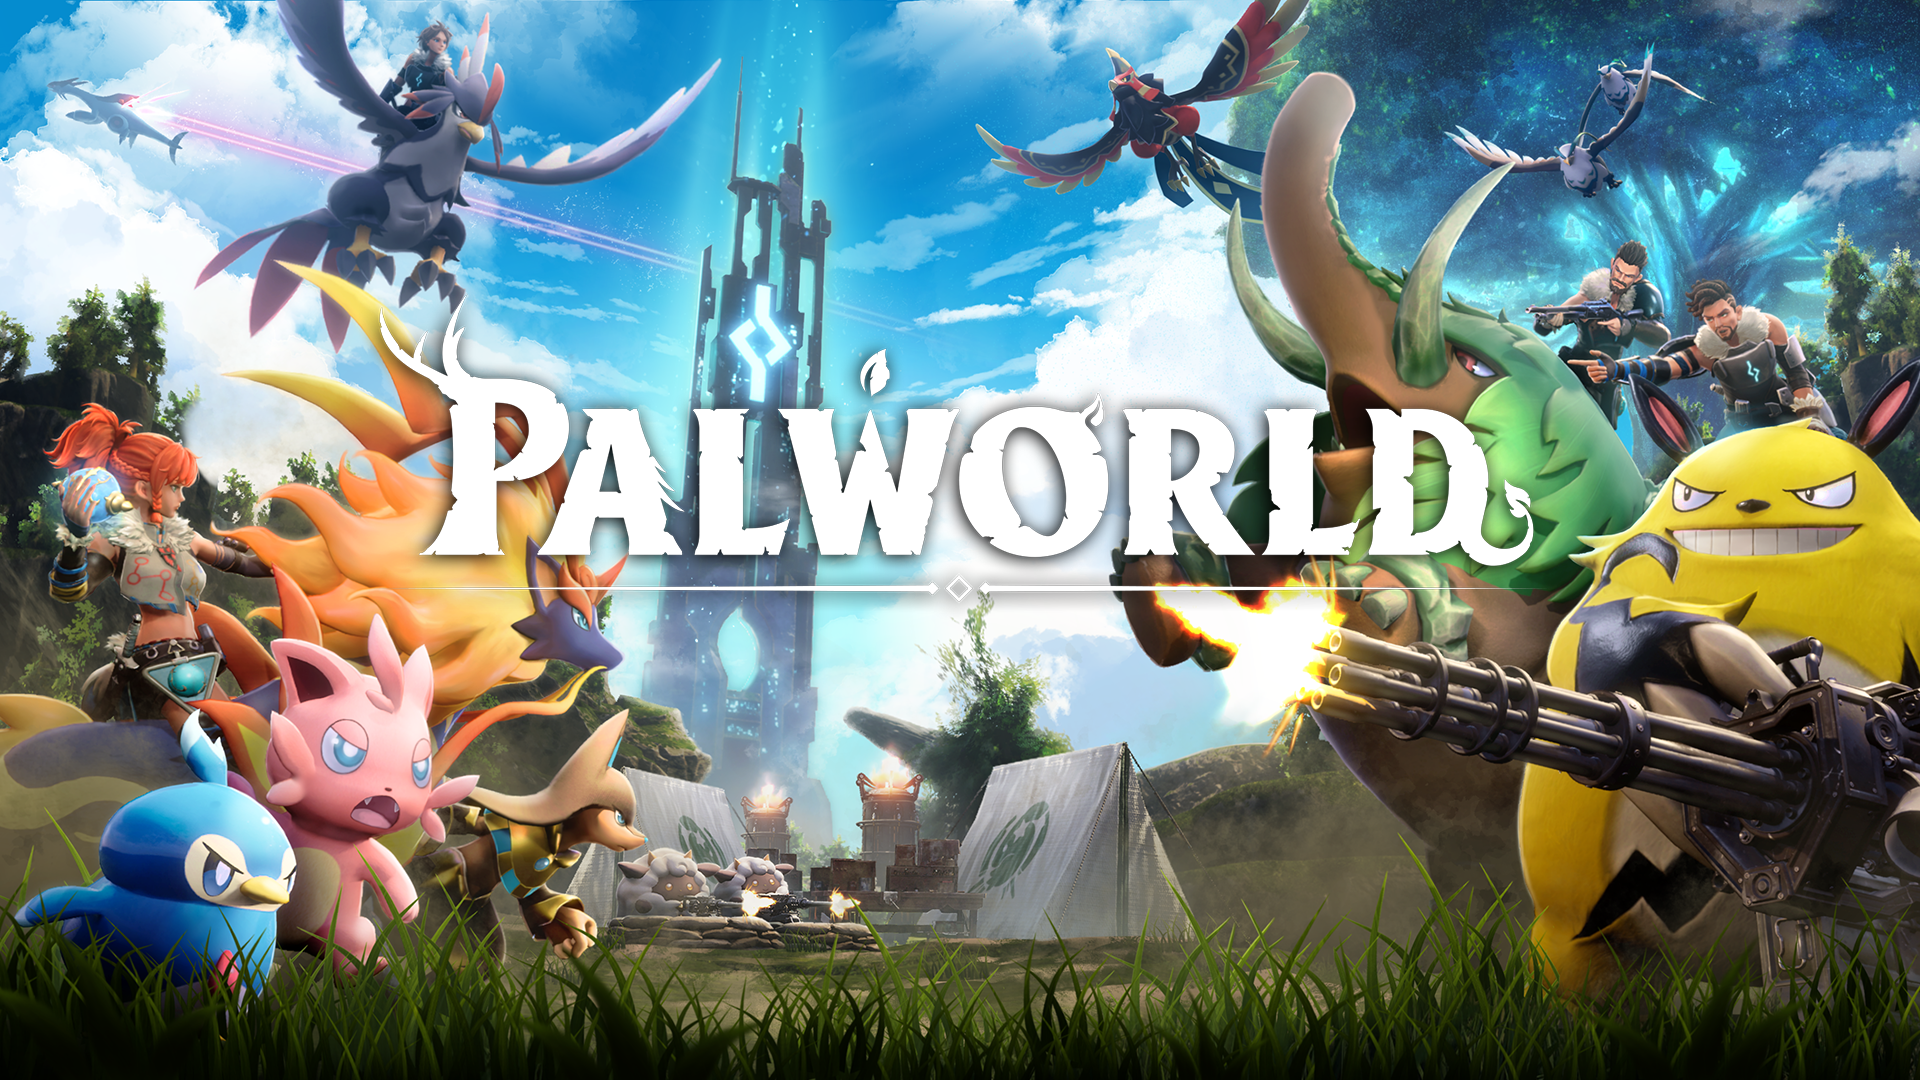
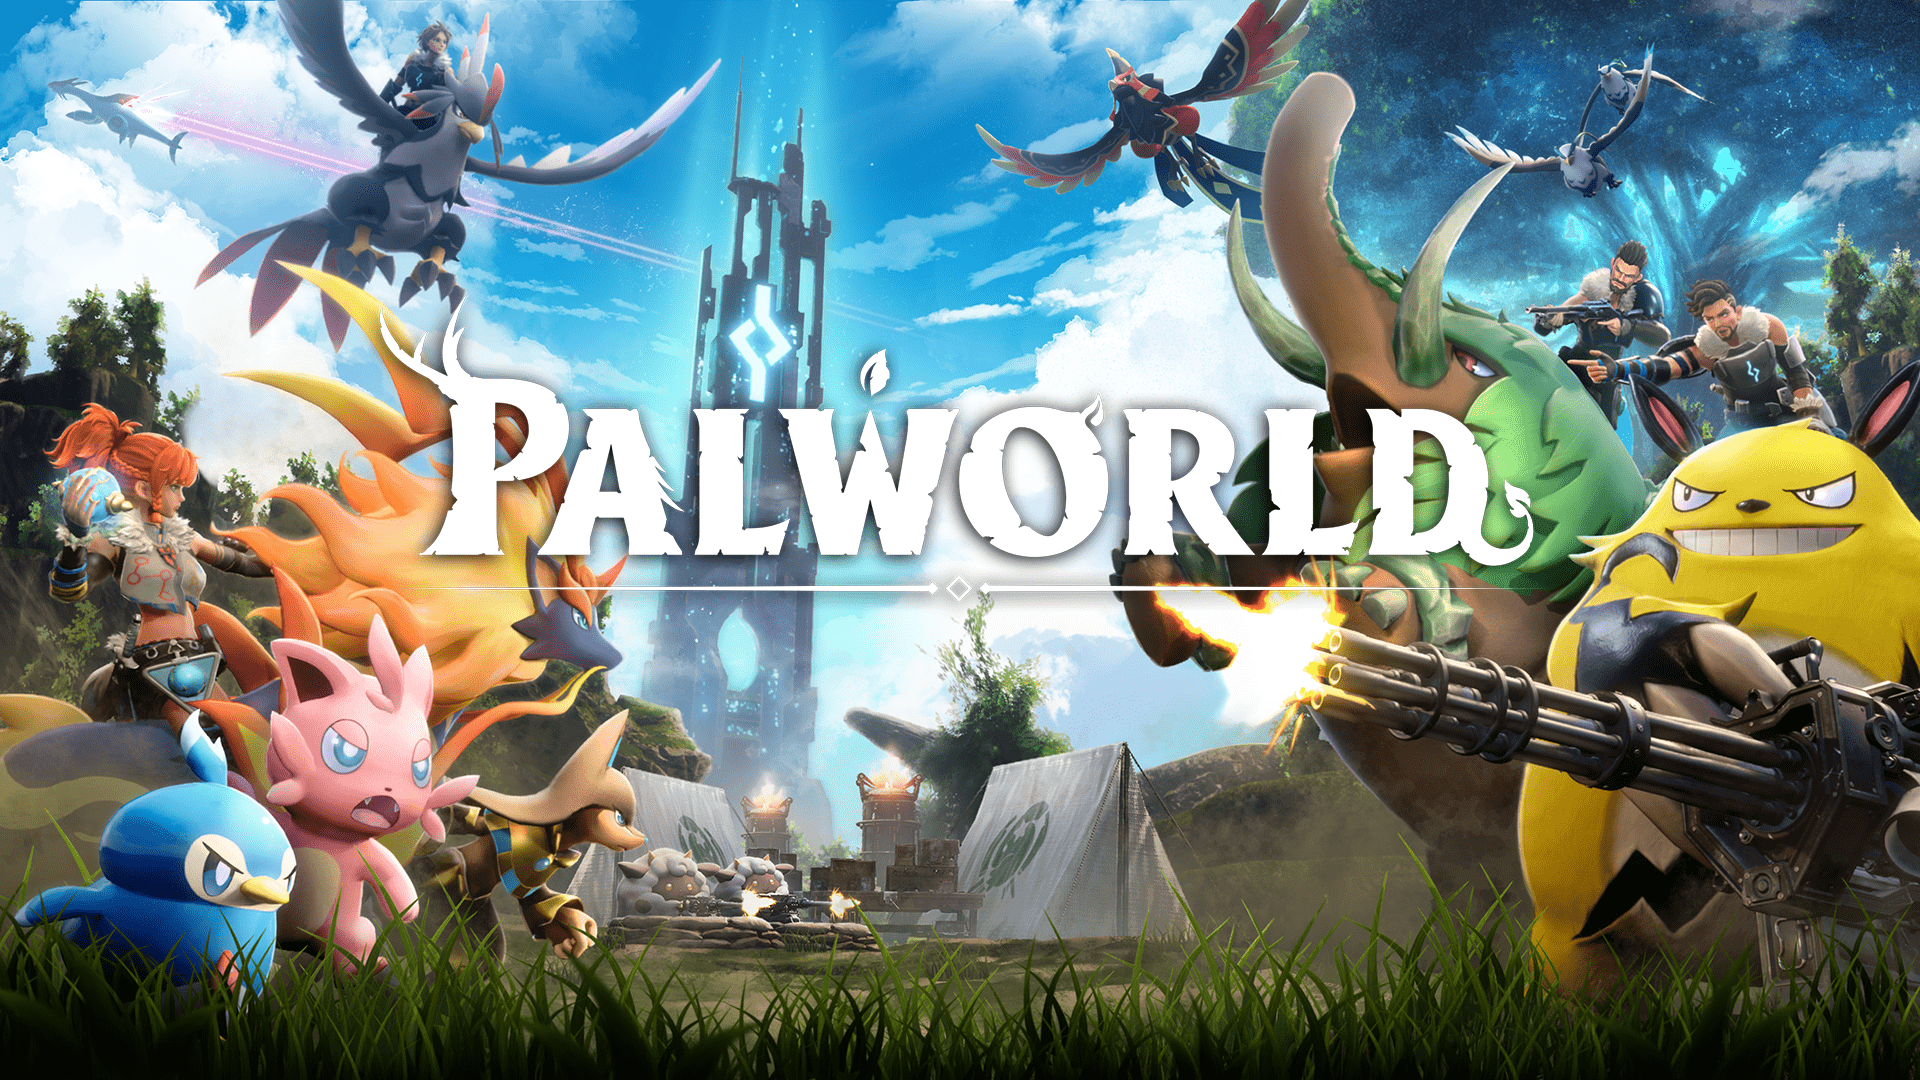
UpdatePageSpeed

diff --git a/index.html b/index.html
@@ -168,7 +168,7 @@
                         </div>
                         <!-- Slide 3: ARK: Survival Ascended Hosting -->
                         <div class="swiper-slide">
-                            <div class="swiper-inner" data-bgimage="url(images/slider/2.png)">
+                            <div class="swiper-inner" data-bgimage="url(images/slider/2.jpg)">
                                 <div class="sw-caption">
                                     <div class="container">
                                         <div class="row gx-5 align-items-center">
